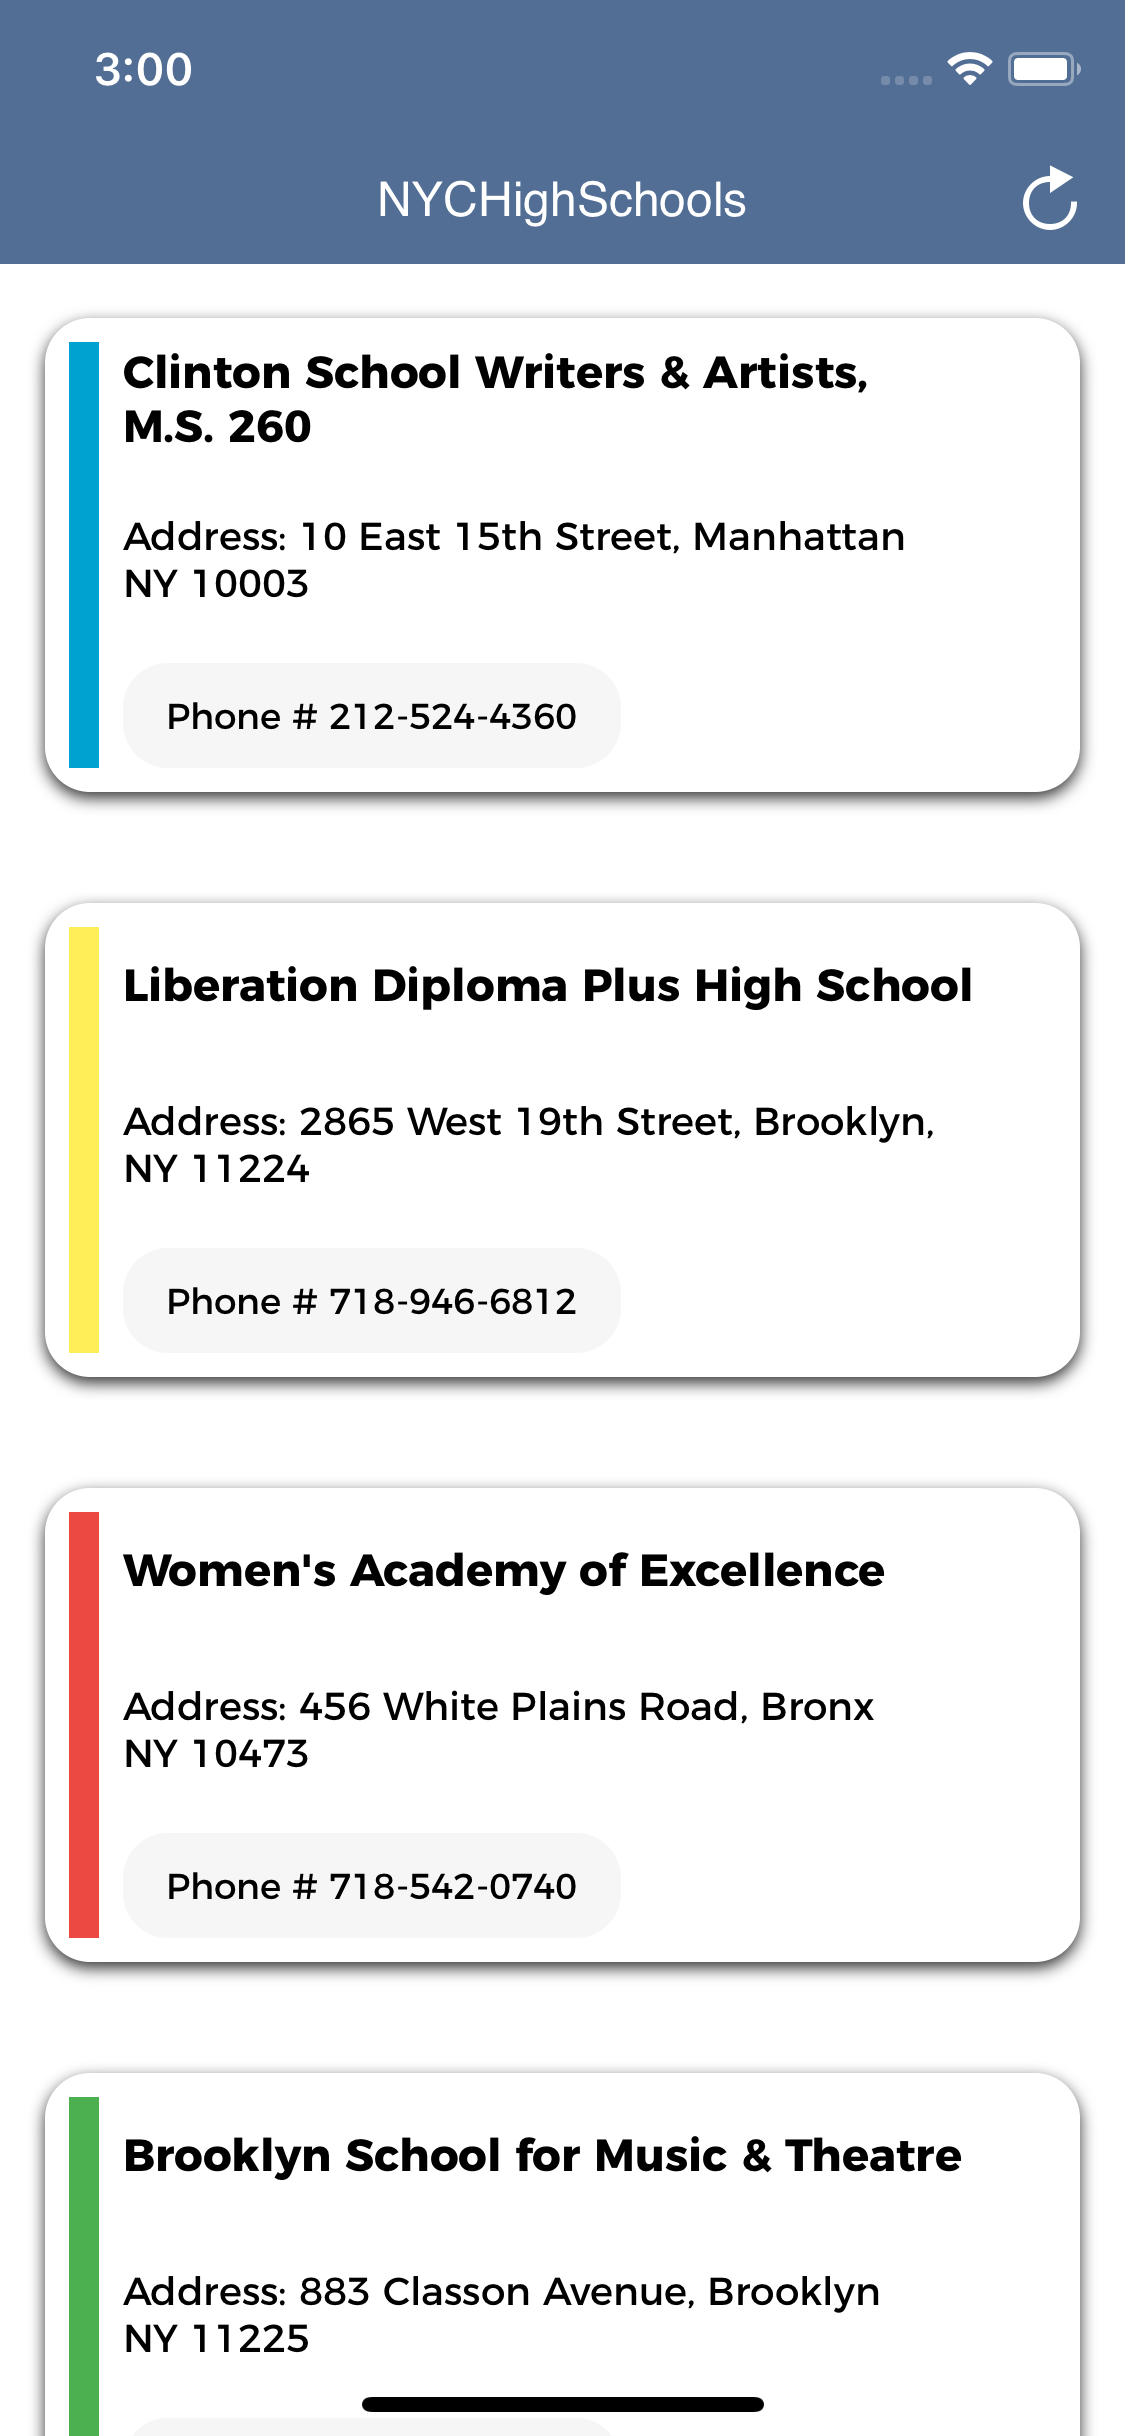
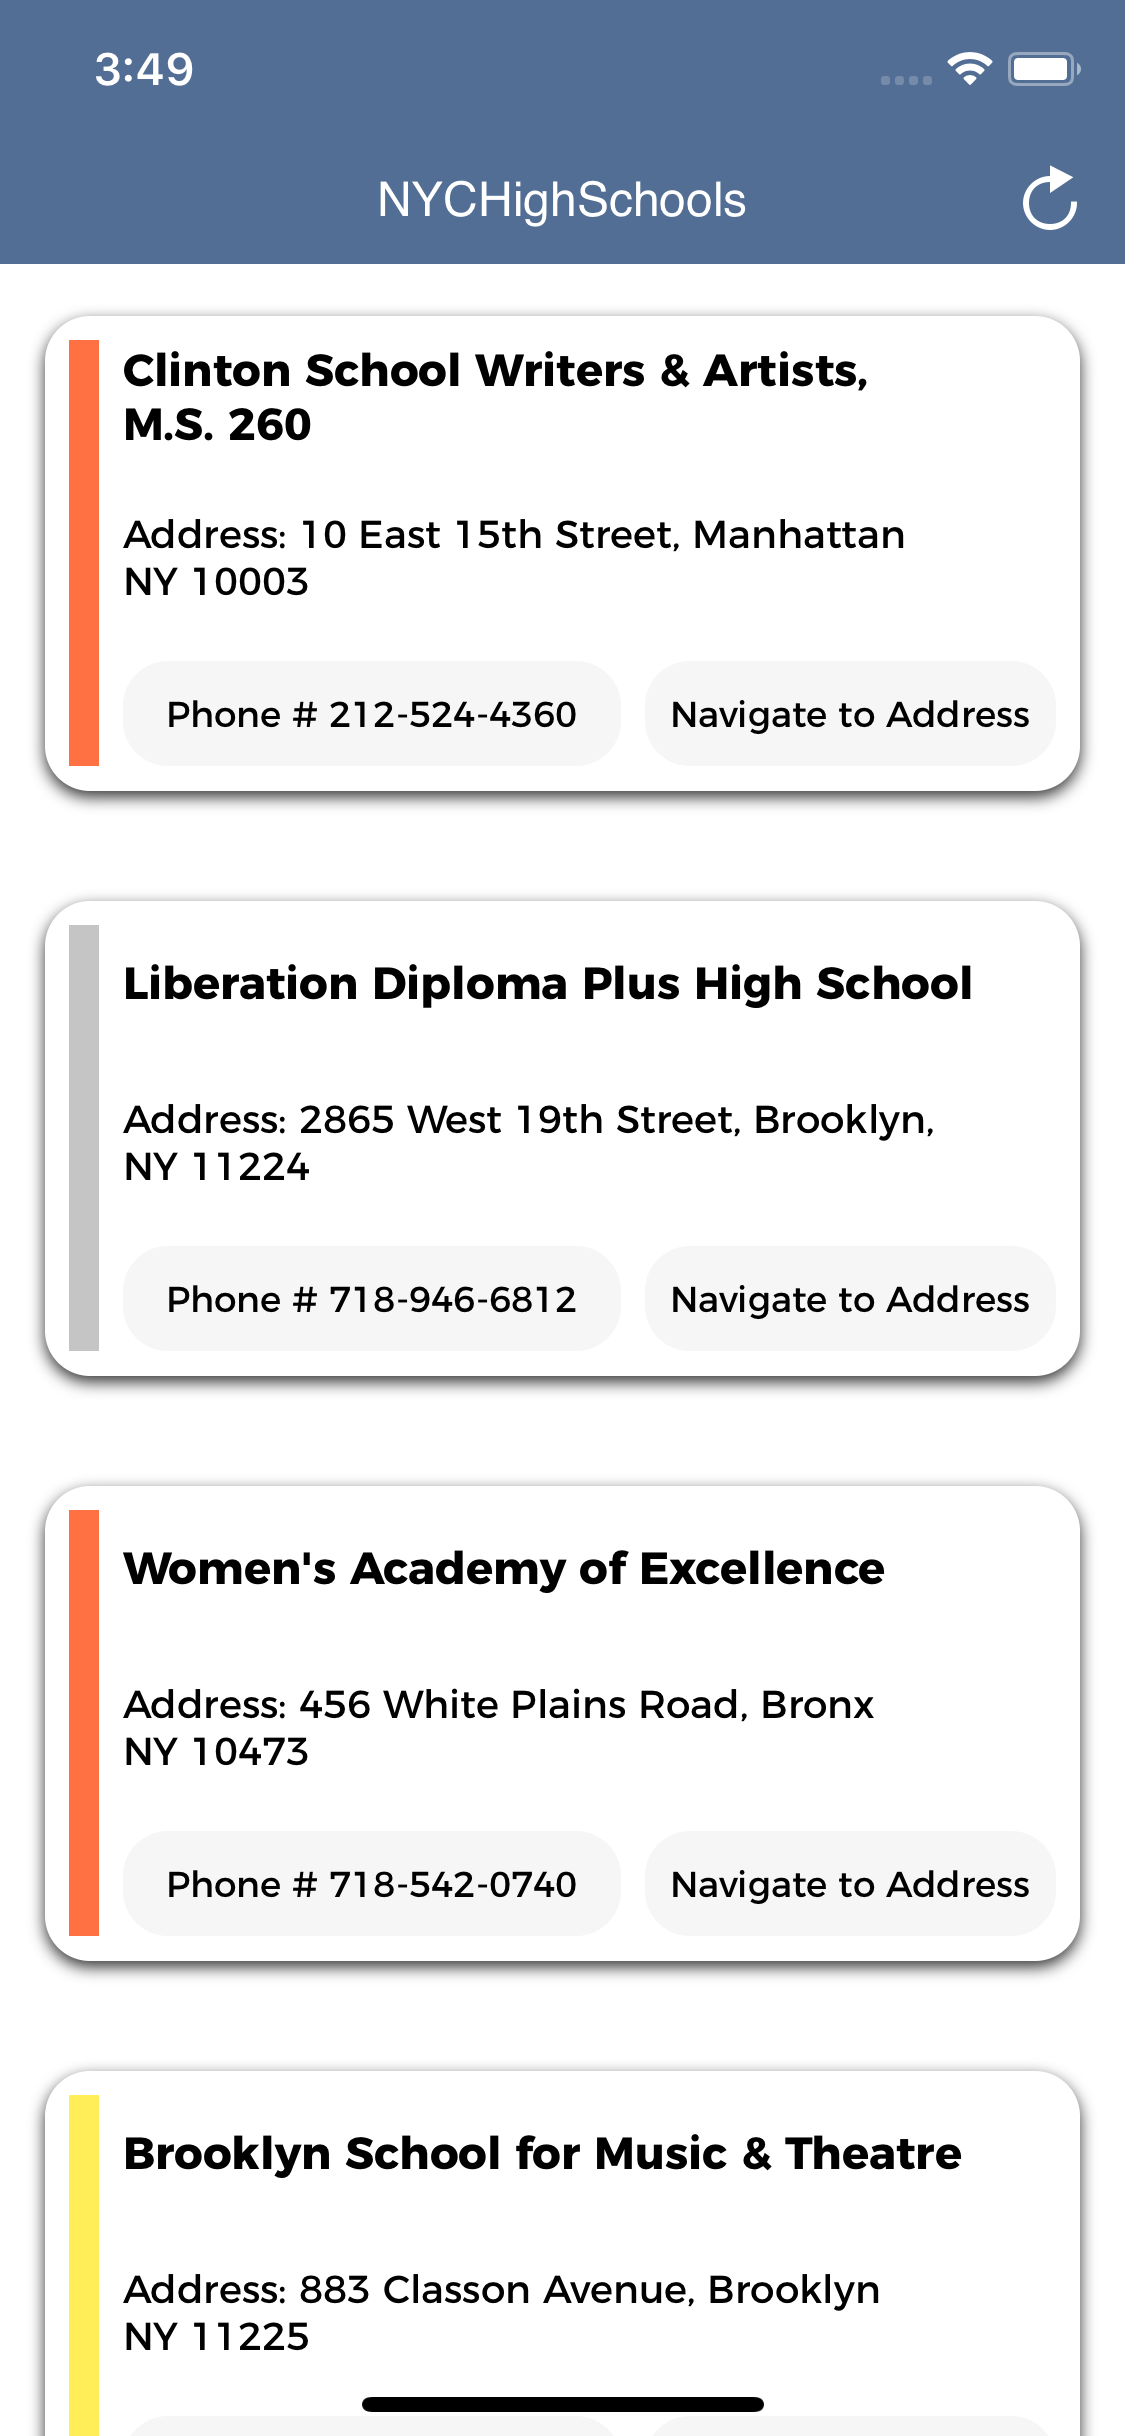
Updated the screenshots + Changes inside of README.md + Added Navigate to Address button on the Home screen

diff --git a/20180817-AfnanMirza-NYCSchools/View Controllers/NYCHSViewController.swift b/20180817-AfnanMirza-NYCSchools/View Controllers/NYCHSViewController.swift
@@ -7,6 +7,7 @@
 //
 
 import UIKit
+import MapKit
 
 class NYCHSViewController: UIViewController {
     // UI Components
@@ -182,6 +183,28 @@ class NYCHSViewController: UIViewController {
         }
     }
     
+    @objc func navigateToAddress(_ sender: UIButton){
+        
+        var nycHighSchoolList: NYCHighSchools
+        
+        if isFiltering() {
+            nycHighSchoolList = filteredNycHSList[sender.tag]
+        } else {
+            nycHighSchoolList = self.nycHSList![sender.tag]
+        }
+        
+        let schoolAddress = nycHighSchoolList.schoolAddress
+        
+        if let highSchoolCoordinate = Utils.getCoodinateForSelectedHighSchool(schoolAddress){
+            let coordinate = CLLocationCoordinate2DMake(highSchoolCoordinate.latitude, highSchoolCoordinate.longitude)
+            let mapItem = MKMapItem(placemark: MKPlacemark(coordinate: coordinate, addressDictionary:nil))
+            mapItem.name = "\(nycHighSchoolList.schoolName!)"
+            mapItem.openInMaps(launchOptions: [MKLaunchOptionsDirectionsModeKey : MKLaunchOptionsDirectionsModeDriving])
+        }
+        
+ 
+    }
+    
     // MARK: - Navigation
     override func prepare(for segue: UIStoryboardSegue, sender: Any?) {
         //Pass the selected school with sat score to the destinatiion view controller
@@ -244,13 +267,16 @@ extension NYCHSViewController: UITableViewDataSource, UITableViewDelegate {
         if let schoolAddr = nycHighSchoolList.schoolAddress {
             let address = Utils.getCompleteAddressWithoutCoordinate(schoolAddr)
             cell.schoolAddrLbl.text = "Address: \(address)"
+            
+            cell.navigateToAddrBtn.tag = indexPath.row
+            cell.navigateToAddrBtn.addTarget(self, action: #selector(self.navigateToAddress(_:)), for: .touchUpInside)
         }
         
         if let phoneNum = nycHighSchoolList.schoolTelephoneNumber{
-            cell.schoolPhoneNumLbl.setTitle("Phone # \(phoneNum)", for: .normal)
+            cell.schoolPhoneNumBtn.setTitle("Phone # \(phoneNum)", for: .normal)
             
-            cell.schoolPhoneNumLbl.tag = indexPath.row
-            cell.schoolPhoneNumLbl.addTarget(self, action: #selector(self.callNumber(_:)), for: .touchUpInside)
+            cell.schoolPhoneNumBtn.tag = indexPath.row
+            cell.schoolPhoneNumBtn.addTarget(self, action: #selector(self.callNumber(_:)), for: .touchUpInside)
         }
         
         

diff --git a/20180817-AfnanMirza-NYCSchools/View Controllers/Cells/NYCHSTableViewCell.swift b/20180817-AfnanMirza-NYCSchools/View Controllers/Cells/NYCHSTableViewCell.swift
@@ -18,7 +18,8 @@ class NYCHSTableViewCell: UITableViewCell {
     
     @IBOutlet var schoolNameLbl: UILabel!
     @IBOutlet var schoolAddrLbl: UILabel!
-    @IBOutlet var schoolPhoneNumLbl: UIButton!
+    @IBOutlet var schoolPhoneNumBtn: UIButton!
+    @IBOutlet var navigateToAddrBtn: UIButton!
     
     
     override func awakeFromNib() {
@@ -27,8 +28,8 @@ class NYCHSTableViewCell: UITableViewCell {
         chooseRandomColorForCard()
         setupCardViewShadows()
         
-        self.schoolPhoneNumLbl.layer.cornerRadius = 15
-        
+        self.schoolPhoneNumBtn.layer.cornerRadius = 15
+        self.navigateToAddrBtn.layer.cornerRadius = 15
     }
     
     // MARK: Card View Customization Functions

diff --git a/README.md b/README.md
@@ -21,11 +21,18 @@
 - Custom Animation for UITableViewCells
 - Added UISearchBar & UISearchController to make it easier for the user to find a certain school inside of the application.
 - Users can call the school by simply pressing the schools phone number on the Initial Screen (User will have to run the application on a Real Device in order for this to function properly. ).
+- Users can navigate to the school simply by pressing the Navigate to Address button on the Initial Screen.
 - In the Details View Added These Details:
     - Schools SAT Scores
     - Schools Overview
     - Schools Contact Information
     - MapView with Schools location pinpointed
+
+
+### How to Use the app
+
+In order to test the app, project files need to be opened in Xcode 9.2<br/>
+There is no need to configure anything inside of the application source code. The project is already configured and can be run directly on a simulator of your choice. when the app first launches it will fetch the School's Data from the City of New York websites API. Once the data has been fetched successfully it will then list all of the schools in a UITableViewCell. Users can then go ahead and click on a school of their choice. This action will present a new View Controller with the Selected Schools SAT Scores and other information.
 
 
 ### Instructions
@@ -82,10 +89,6 @@ In order to prevent you from running down rabbit holes that are less important t
 
 As mentioned, you are not expected to function in a vacuum. Use all the online resources you can find, and please do contact us with questions or for interim feedback if you desire.
 
-### How to Use the app
-
-In order to test the app, project files need to be opened in Xcode 9.2<br/>
-There is no need to configure anything inside of the application source code. The project is already configured and can be run directly on a simulator of your choice. when the app first launches it will fetch the School's Data from the City of New York websites API. Once the data has been fetched successfully it will then list all of the schools in a UITableViewCell. Users can then go ahead and click on a school of their choice. This action will present a new View Controller with the Selected Schools SAT Scores and other information.
 
 
 
